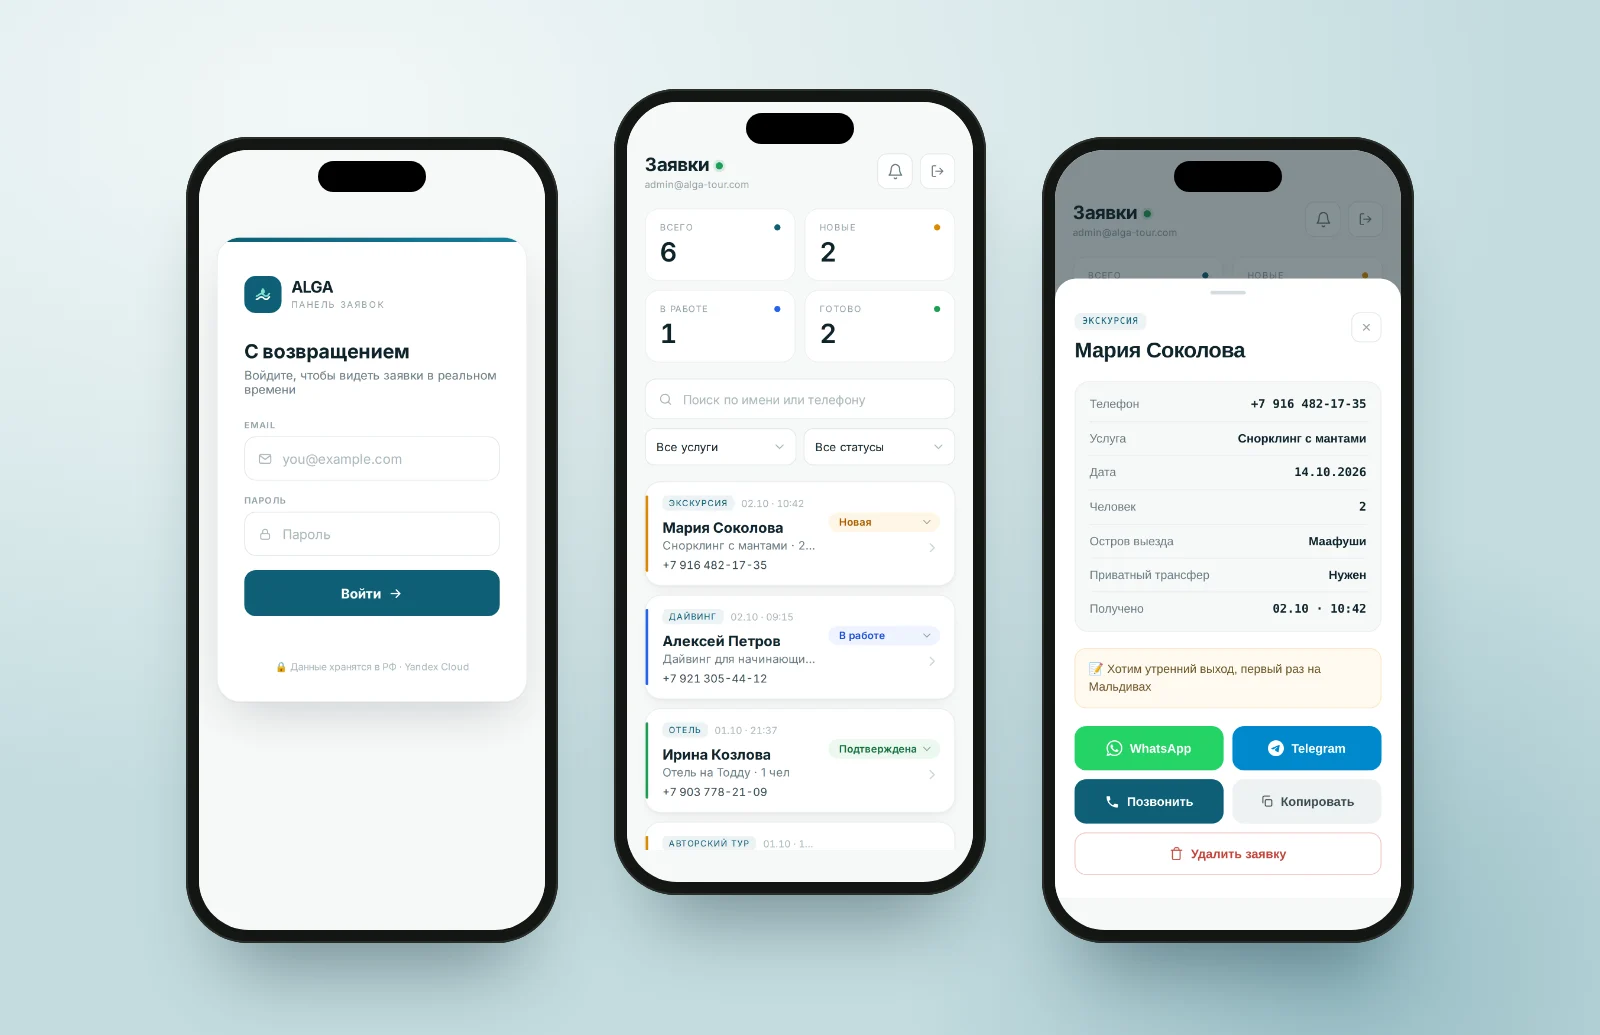
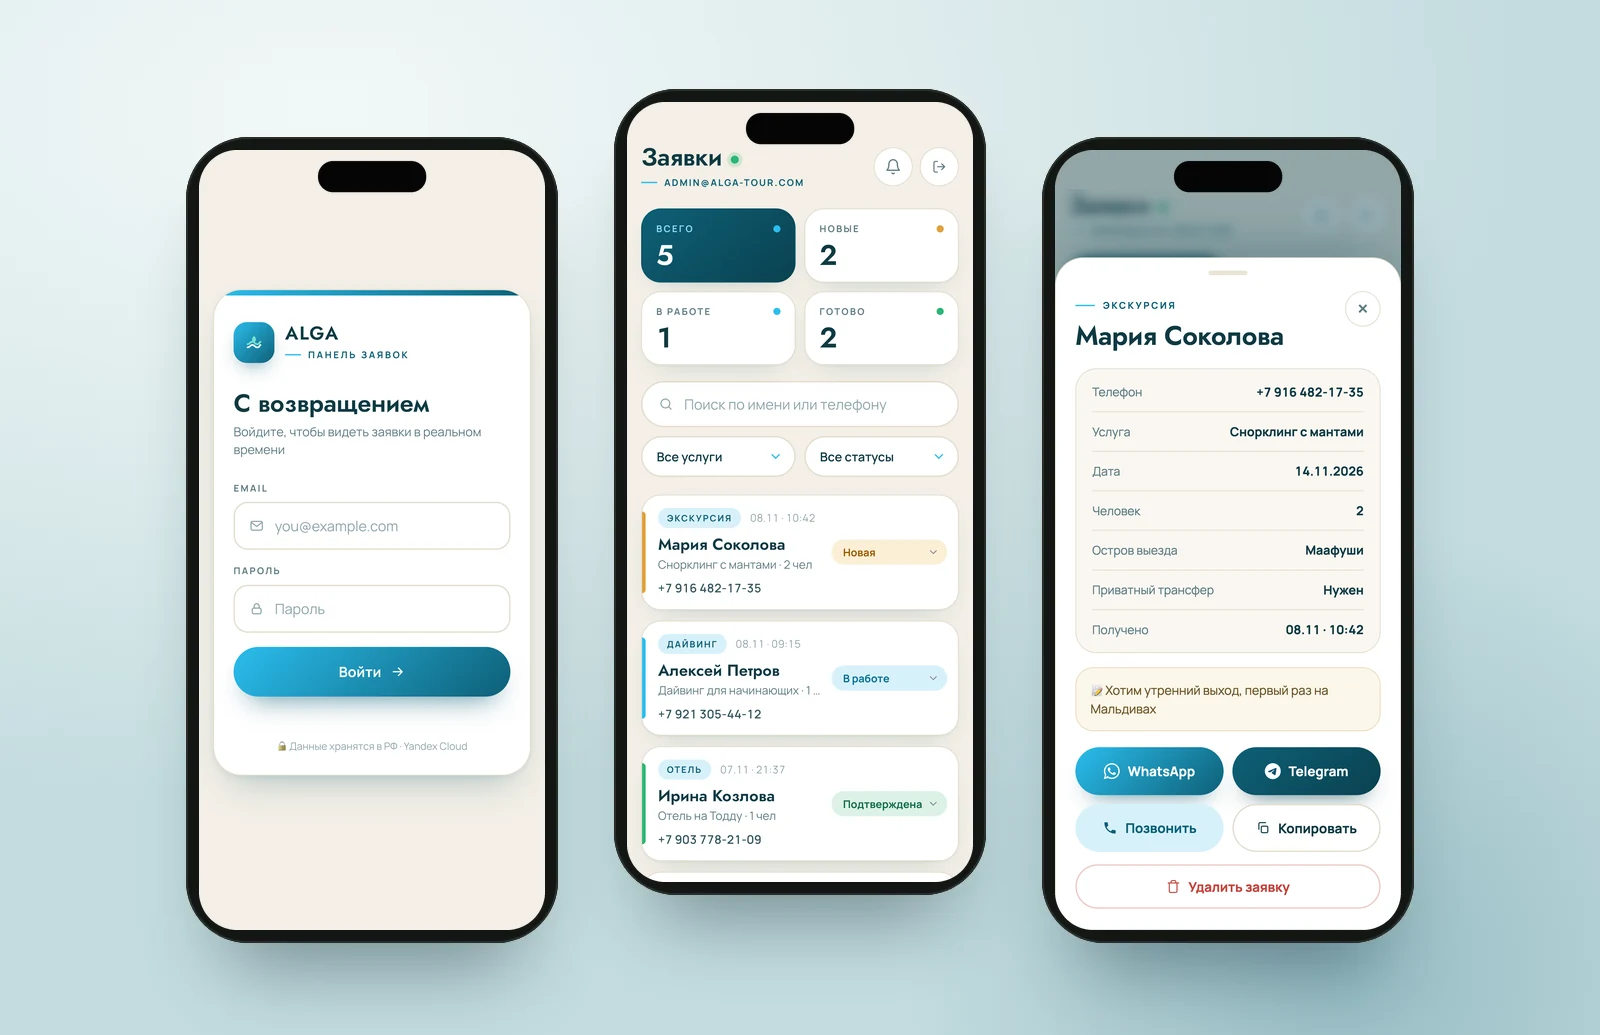
Кейс ALGA: снимки нового сайта и текущей админки

diff --git a/case-alga.html b/case-alga.html
@@ -70,13 +70,17 @@ if(c==='1')arm()})();
       "description": "Разбор проекта ALGA: сайт авторских туров на Мальдивах с нуля. Кастомный код, свои пресеты и логотип, две языковые версии, CRM с заявками в PWA-админку и Telegram.",
       "inLanguage": "ru-RU",
       "datePublished": "2026-07-30",
-      "dateModified": "2026-10-02",
+      "dateModified": "2026-11-08",
       "url": "https://antonioavanzato.github.io/case-alga.html",
       "mainEntity": {
         "@id": "https://antonioavanzato.github.io/case-alga.html#project"
       },
       "image": [
         "https://antonioavanzato.github.io/images/alga_tour.webp",
+        "https://antonioavanzato.github.io/images/alga-about.webp",
+        "https://antonioavanzato.github.io/images/alga-founder.webp",
+        "https://antonioavanzato.github.io/images/alga-directions.webp",
+        "https://antonioavanzato.github.io/images/alga-finish.webp",
         "https://antonioavanzato.github.io/images/alga-admin.webp"
       ],
       "author": {
@@ -320,8 +324,8 @@ if(c==='1')arm()})();
     </dl>
 
     <figure class="case-shot reveal" data-d="2">
-      <img src="images/alga_tour.webp"
-           alt="Первый экран сайта ALGA: бирюзовая лагуна Мальдив и авторские туры"
+      <img src="images/alga_tour.webp?v=5"
+           alt="Первый экран сайта ALGA: логотип на кадре с мантами в бирюзовом океане Мальдив"
            width="1600" height="1035" loading="eager" decoding="async">
       <figcaption>Главная собрана кастомным кодом, а не шаблоном хостинга — фирменная колористика под тематику Мальдив.</figcaption>
     </figure>
@@ -349,6 +353,27 @@ if(c==='1')arm()})();
         </ul>
       </div>
     </div>
+
+    <figure class="case-shot reveal">
+      <img src="images/alga-about.webp?v=1"
+           alt="Блок сайта ALGA с заголовком «Мальдивы, какими их знают только местные» и ключевыми цифрами агентства"
+           width="1600" height="1035" loading="lazy" decoding="async">
+      <figcaption>Сразу под видео — кто такие ALGA и главные цифры агентства.</figcaption>
+    </figure>
+
+    <figure class="case-shot reveal">
+      <img src="images/alga-founder.webp?v=1"
+           alt="Блок «Основатель, который знает острова изнутри» на сайте ALGA с портретом и рассказом Екатерины"
+           width="1600" height="1035" loading="lazy" decoding="async">
+      <figcaption>Личная история основательницы: живой человек вместо безликого агентства.</figcaption>
+    </figure>
+
+    <figure class="case-shot reveal">
+      <img src="images/alga-directions.webp?v=1"
+           alt="Блок «Четыре формата настоящих Мальдив» на сайте ALGA: карточки авторских туров, экскурсий, отелей и luxury-отдыха"
+           width="1600" height="1035" loading="lazy" decoding="async">
+      <figcaption>Четыре формата отдыха — отдельными карточками с переходом в свой раздел.</figcaption>
+    </figure>
 
     <div class="case-block reveal">
       <h2>Заявки <em>без рутины</em></h2>
@@ -391,7 +416,7 @@ if(c==='1')arm()})();
     </div>
 
     <figure class="case-shot reveal">
-      <img src="images/alga-admin.webp"
+      <img src="images/alga-admin.webp?v=5"
            alt="PWA-админка ALGA на трёх iPhone: экран входа, список заявок со сводкой и фильтрами, карточка заявки с кнопками WhatsApp, Telegram и звонка"
            width="1600" height="1035" loading="lazy" decoding="async">
       <figcaption>Вход в панель, список заявок со статусами и фильтрами, карточка заявки с деталями тура и связью с туристом в одно касание. Данные на скриншотах демонстрационные.</figcaption>
@@ -412,6 +437,13 @@ if(c==='1')arm()})();
           специально под ALGA.</p>
       </div>
     </div>
+
+    <figure class="case-shot reveal">
+      <img src="images/alga-finish.webp?v=1"
+           alt="Блоки частых вопросов и финального предложения на сайте ALGA с кнопками заявки и WhatsApp"
+           width="1600" height="1035" loading="lazy" decoding="async">
+      <figcaption>Частые вопросы снимают сомнения, а финальный блок ведёт к заявке или в WhatsApp.</figcaption>
+    </figure>
 
     <div class="case-block reveal">
       <h2>Что <em>получилось</em></h2>
